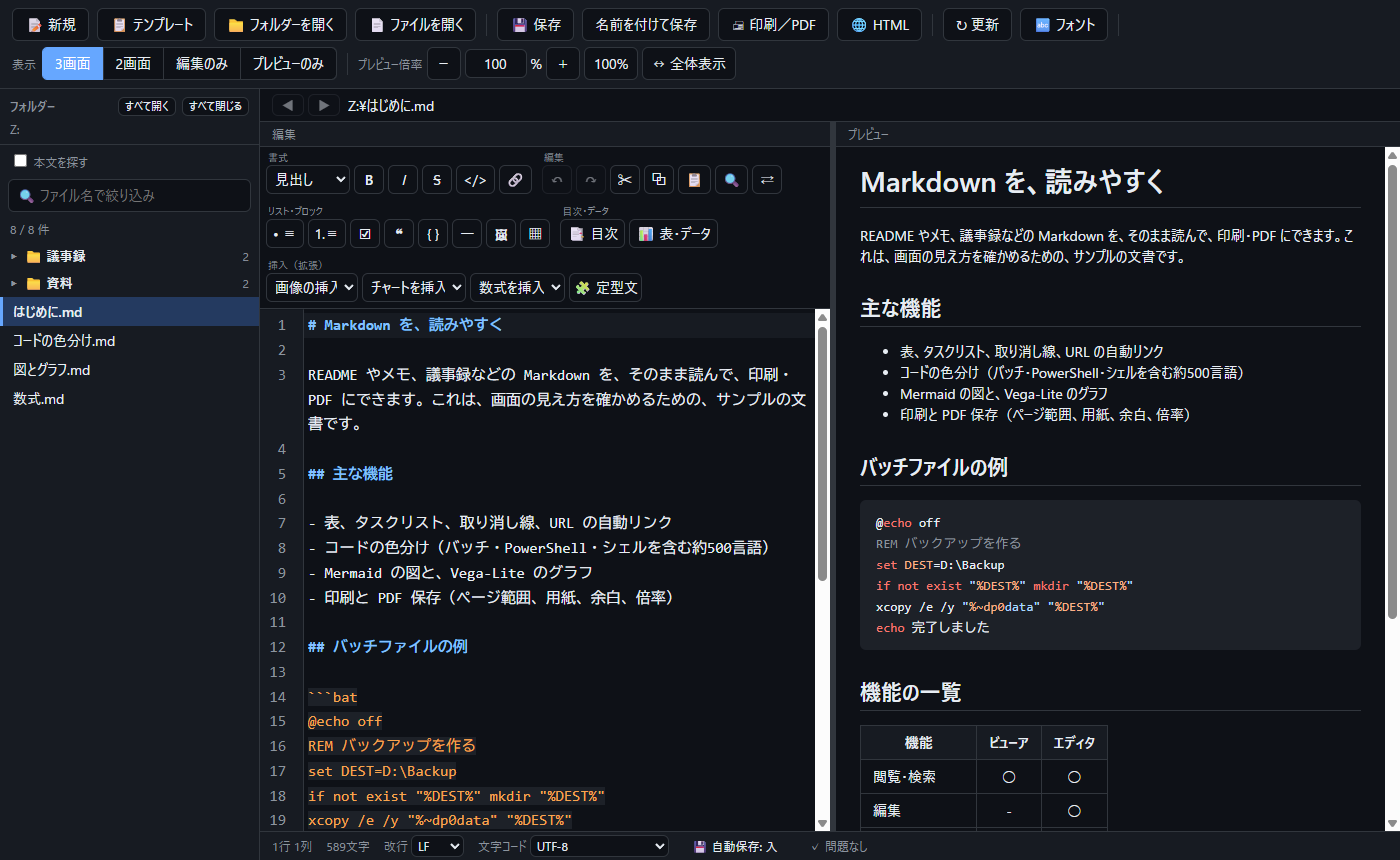
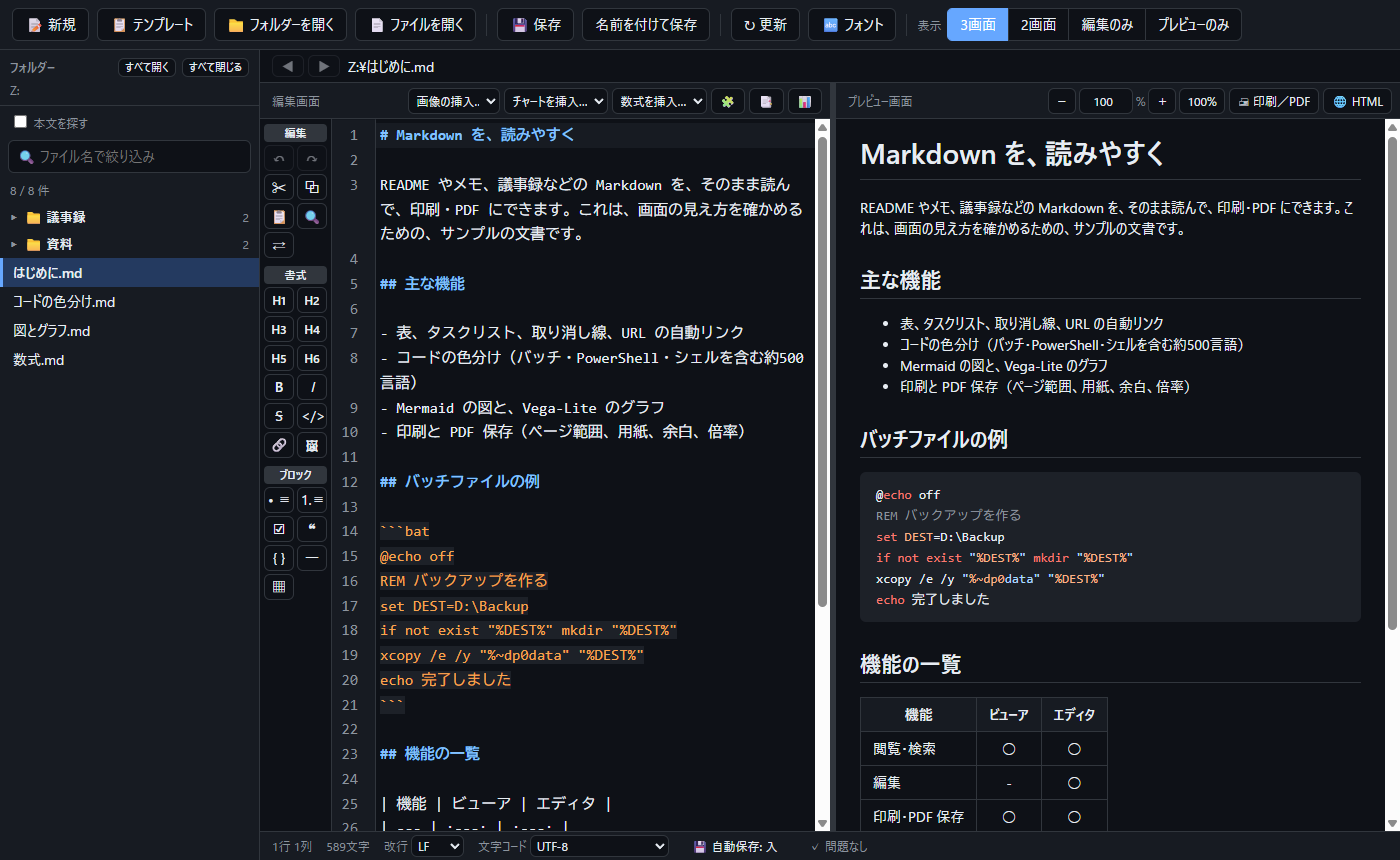
MarkdownEditor: v1.21.0（操作ボタンの配置の見直し）
- 版を 1.21.0 に上げ、更新履歴を追記した
- README のスクリーンショットを、新しい配置で撮り直した

Changed region(s): [[0.0, 0.0, 1.0, 0.9674]]

diff --git a/mdeditor.py b/mdeditor.py
@@ -49,7 +49,7 @@ import snippets
 from sanitize import sanitize
 
 APP_NAME = "Handy Markdown Editor"
-APP_VERSION = "1.20.0"         # ウィンドウのタイトルなどに出すバージョン。ここだけ書き換える
+APP_VERSION = "1.21.0"         # ウィンドウのタイトルなどに出すバージョン。ここだけ書き換える
 APP_TITLE = f"{APP_NAME} v{APP_VERSION}"
 MD_EXTENSIONS = (".md", ".markdown", ".mdown", ".mkd")
 PROG_ID = "MarkdownEditor.File"
